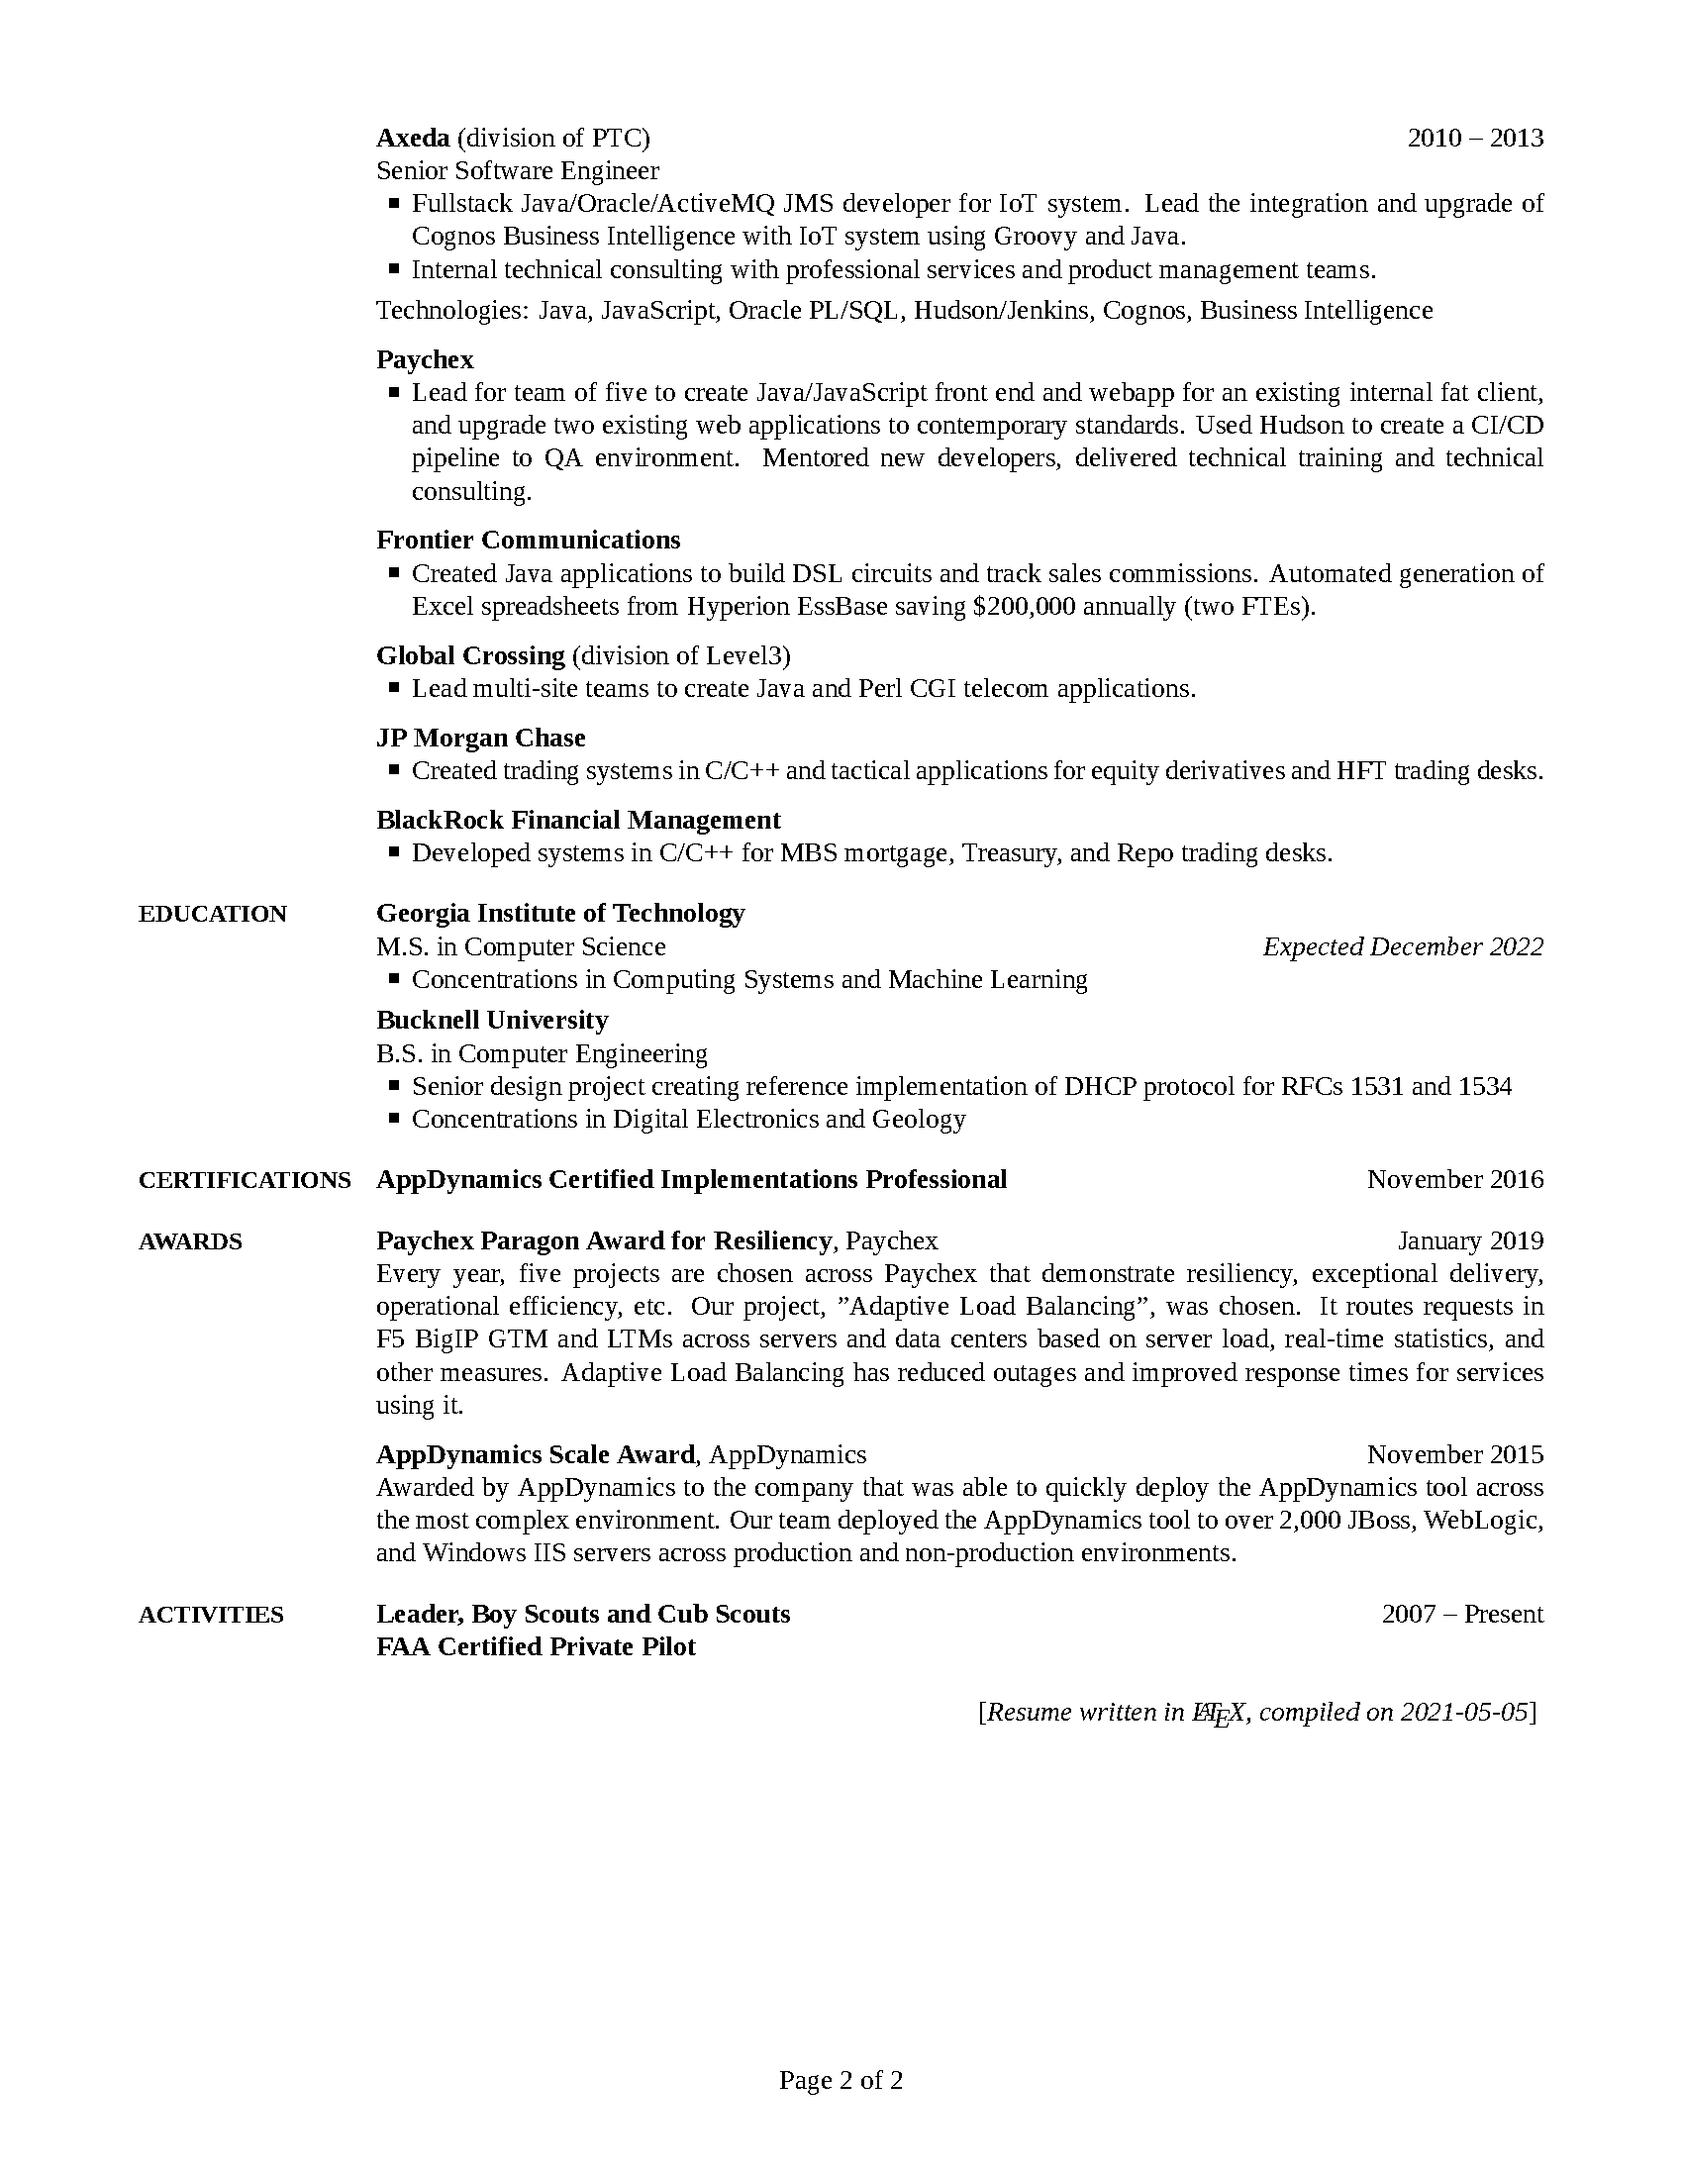
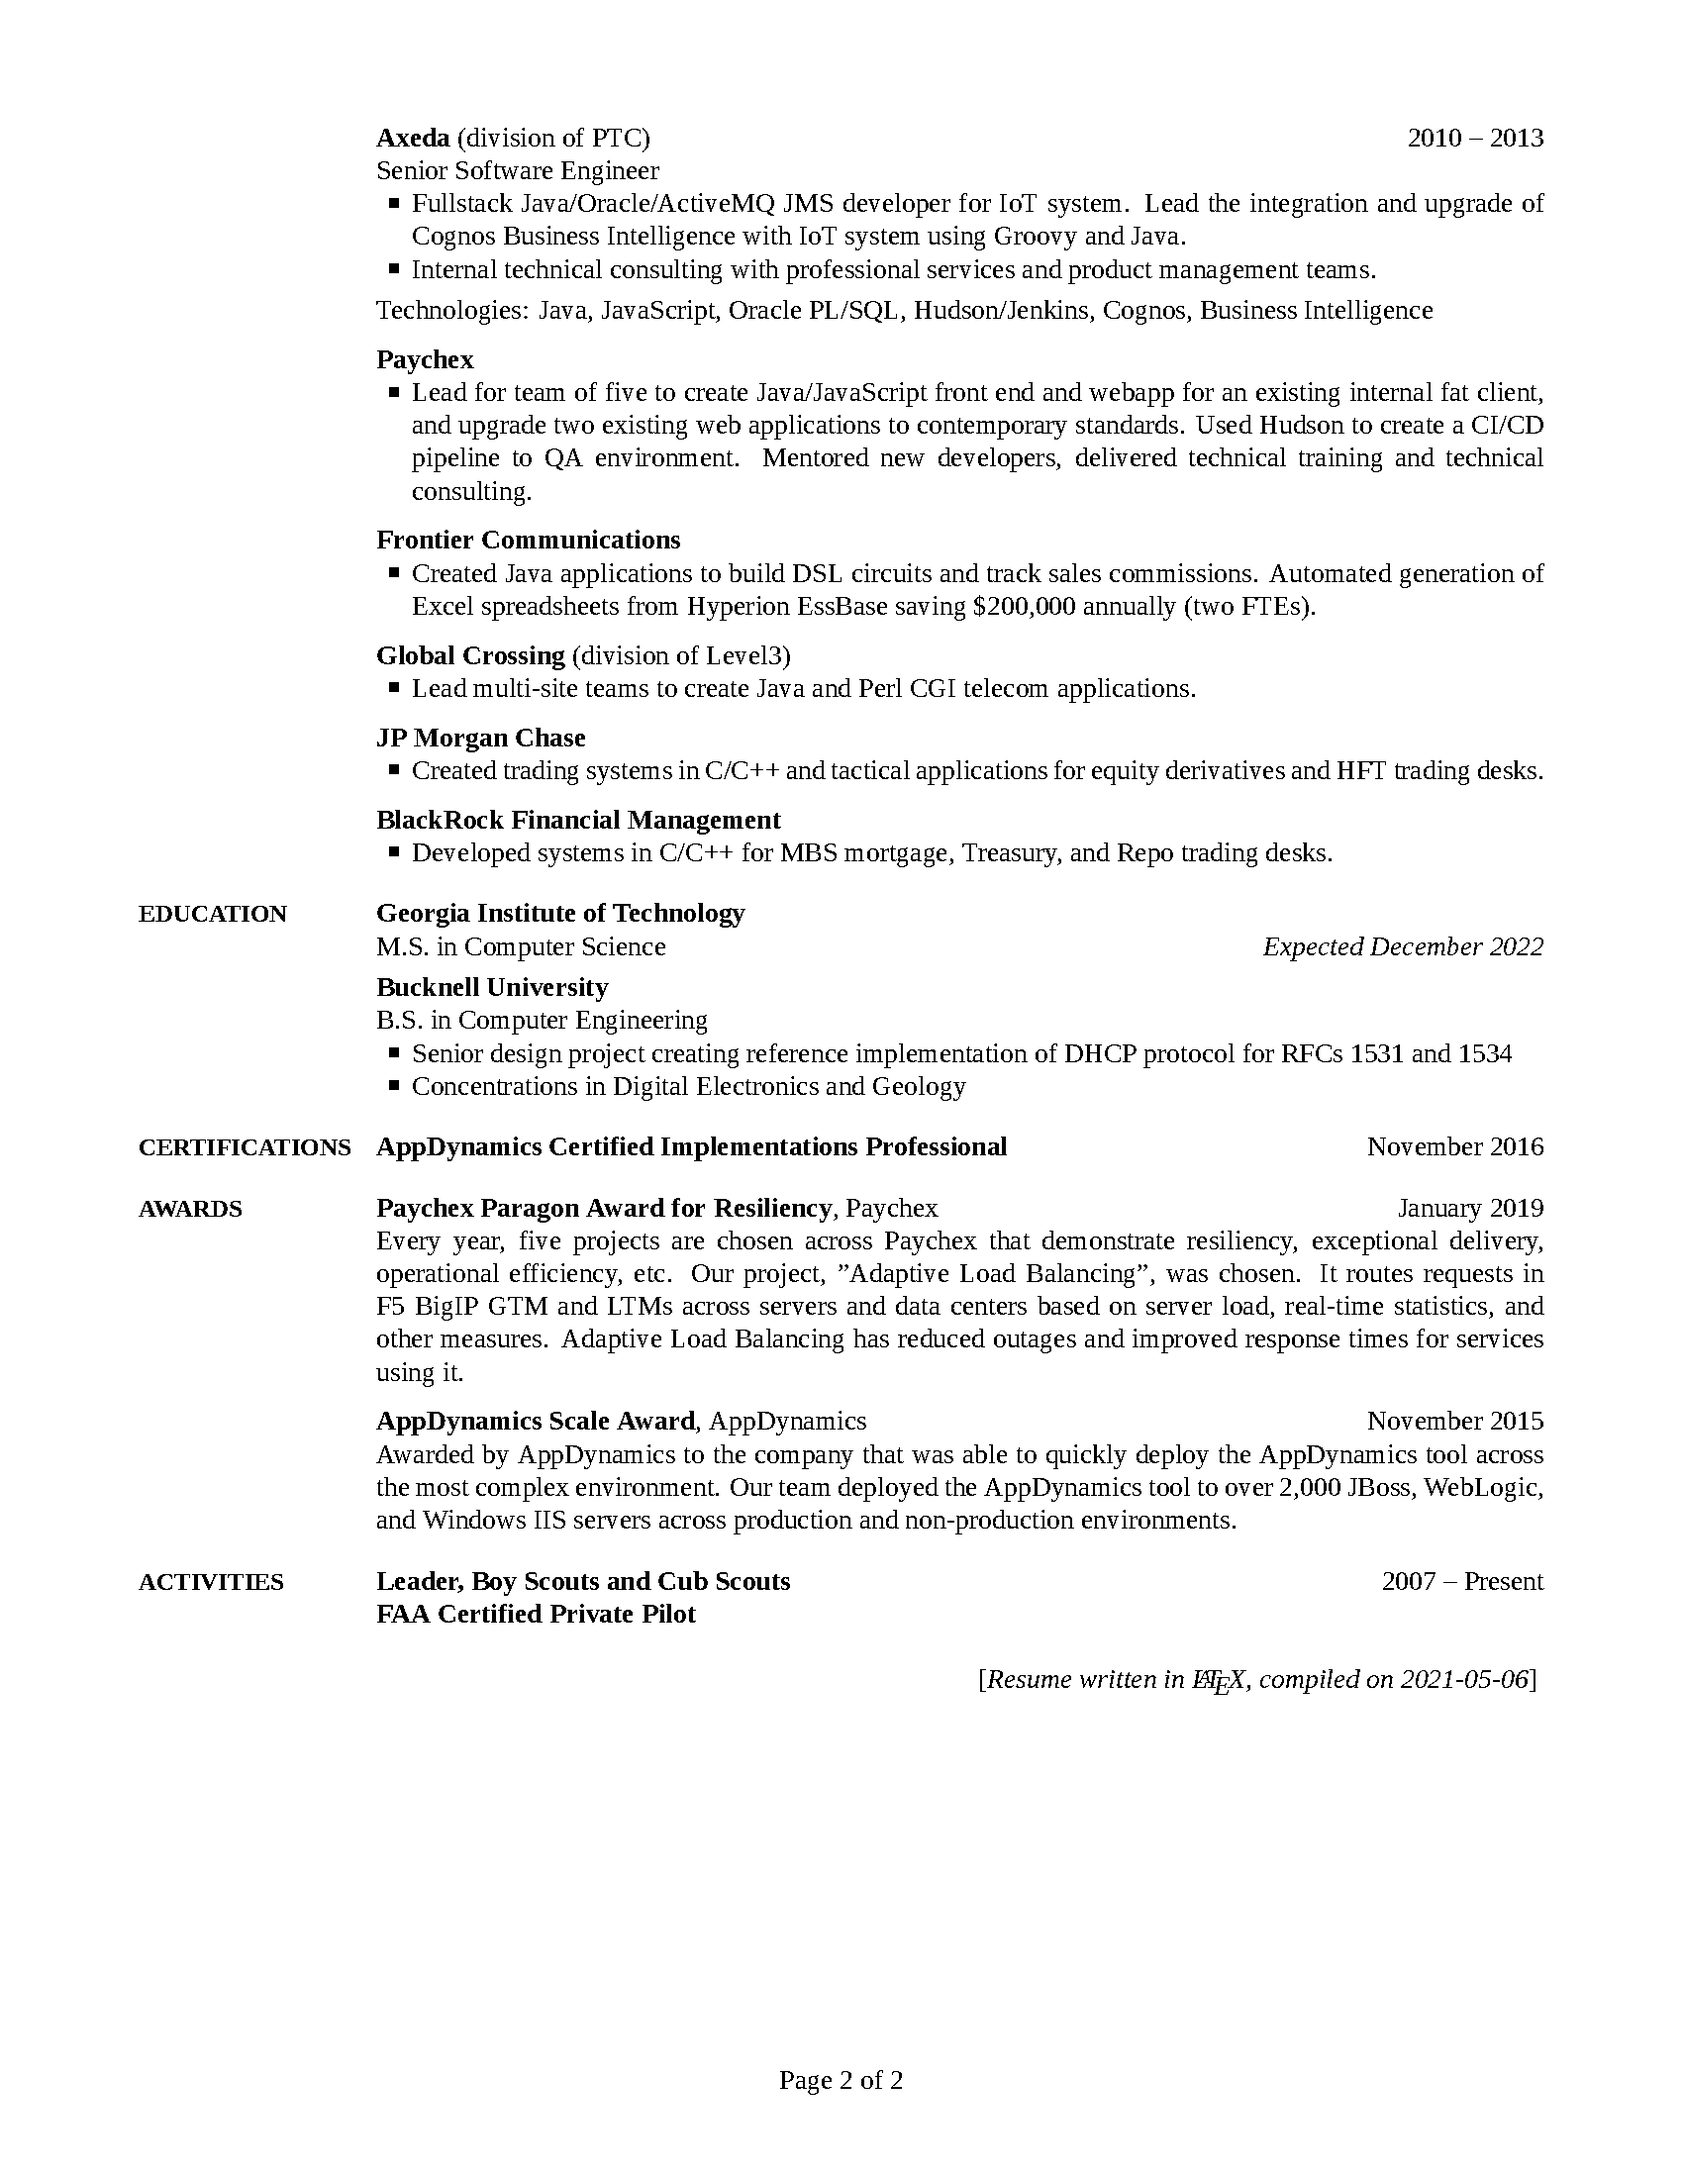
final tweaks

diff --git a/Ed_Griebel_CV.tex b/Ed_Griebel_CV.tex
@@ -134,11 +134,11 @@ Rochester, New York
 
 \begin{Detail}
 \BulletItem
-Work closely with peer developers, product owners, and operations teams to create a new credit product including processing, accounting, statementing, and user-level APIs.
+Work closely with peer developers, product owners, and operations teams to create a greenfield system to support a new credit card product including processing, accounting, statementing, and user-level APIs.
 \BulletItem
 Collaborate on creating processes and procedures to support development and maintenance activities.
 \BulletItem
-Mentor, guide, and be an example for other developers on the team for designs and general software engineering practices
+Mentor, guide, and be an example for other developers on the team for designs and general software engineering practices.
 
 
 \Gap
@@ -208,13 +208,13 @@ Rochester, New York
 
 \begin{Detail}
 \BulletItem
-Determine performance issues impacting system scalability and work with technical owners for prioritization and resolution
+Determine performance issues impacting system scalability and work with technical owners for prioritization and resolution.
 \BulletItem
-Create and build consensus on engineering best practices to improve developer productivity and long-term supportability
+Create and build consensus on engineering best practices to improve developer productivity and long-term supportability.
 \BulletItem
-Create new features for customers and tools to enhance developer productivity
+Create new features for customers and tools to enhance developer productivity.
 \BulletItem
-Mentor and guide junior developers in Catalant's development environment and software engineering practices
+Mentor and guide junior developers in Catalant's development environment and software engineering practices.
 
 
 \Gap
@@ -548,8 +548,8 @@ M.S. in Computer Science
 \hfill 
 \textit{Expected December 2022}
 
-\BulletItem
-Concentrations in Computing Systems and Machine Learning
+%% \BulletItem
+%% Concentrations in Computing Systems and Machine Learning
 
 \Gap
 
